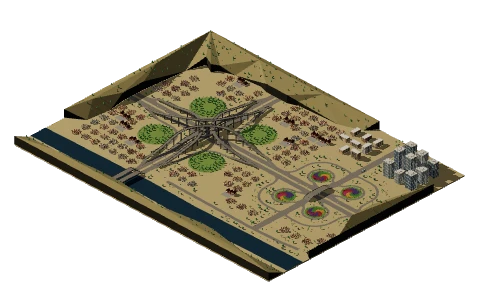
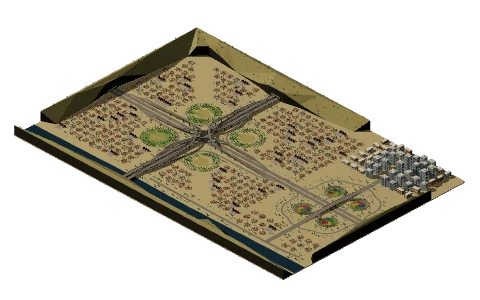
wip: the Interchange's starter pictures retaken (SwiftShader); TODO's traffic template marked done with what's left

Changed region(s): [[0.0312, 0.09, 0.9688, 0.96]]

diff --git a/TODO.md b/TODO.md
@@ -40,7 +40,7 @@ Ideas from the owner, not designed yet. Each needs a design pass (and usually an
 - [ ] **More traffic behaviour:** following and overtaking are done (ADR-0042), and following through junctions (ADR-0136). Still to do: multi-lane roads (two lanes per direction, passing without the oncoming lane), vehicles meeting head-on on roads without lanes (a ferry route driven both ways), giving way inside a junction (vehicles from different roads can pass through each other there), traffic lights or stop signs at junctions (a traffic signal part that a junction's vehicles obey), and maybe a per-road "no overtaking" setting. *Data:* traffic density or speeds from values.
 - [ ] **Connected road networks, next (ADR-0136):** junctions are done: road ends meet at a junction drawn as one surface (roads cut back, markings stopping), vehicles drive on across the network choosing their way at random, and editing connects (dragging an end onto a road or its end, drawing from and onto roads), disconnects and keeps junctions together. Still to do: a junction's own handle in the view (it's moved by any of its ends) and in the outliner; junctions at different heights (a ramp's foot meeting a flyover) and an embankment under a raised junction; roundabouts; flows that drive on as background traffic are done (ADR-0147), but a flow that shows an amount still keeps to its road (an amount carried across junctions would need routing by data); routes that follow data (weights per way out, or a vehicle with a destination); joining the two halves back into one road automatically when a T's side road is deleted (**Join into one road** does it by hand); pasting roads with their junctions; and putting junctions into Brightwater and Lantern Bay, whose roads still overlap.
 - [ ] **A third world: lights and time, next:** the Stockholm template is built (ADR-0135, ADR-0143; `docs/handover/stockholm.md`). Still to do from the first idea: houses on timers (a morning and an evening period), an office tower whose lit panes follow an Occupancy value, Light parts round a square on an evening schedule, a building coloured on a scale by a value. For Stockholm: Norrmalm's stone blocks with flat or mansard roofs, Södermalm east of Götgatan, Katarina kyrka, af Chapman as a full-rigged ship, Strandvägen's boats, the palaces' windows merged as the rows are (fewer draws on Ultra), and its shots in the README's gallery. *Engine gaps it showed:* roads don't follow raised land, so Götgatan climbs Södermalm point by point and Centralbron ends inside its cliff rather than in a real tunnel (ADR-0018); an island in water is raised land drawn over the water area rather than a hole in it (fine for drawing, but water reflections and waves can't know the shore).
-- [ ] **A traffic template (owner, 2026-11-06; after ADR-0147):** a starter world that shows every part of the traffic simulation, a viewpoint for each and a tour through them: junctions (a T, a crossroads, corners, a dead end); background traffic (flows that drive on through junctions: cars, vans, trucks, a bus); a data flow (a road whose width and vehicles follow a small from, to, amount table) beside it; vehicle objects that follow a road (a bus to select, follow and ride along, one kept to its own road with Drive through junctions off); following and overtaking (a slow lorry with faster cars behind on a long road); heights (a bridge over a river, a flyover on an embankment with its ramp, a tunnel portal); a ferry on a hidden route; traffic lights and headlights with an evening coming on. It avoids what isn't built yet (giving way inside a junction, junctions at different heights) rather than showing it off. Made the usual way (Add a template, AGENTS.md: the catalogue, its starter pictures, no validate warnings).
+- [x] **A traffic template (owner, 2026-11-06; after ADR-0147):** done as **The Interchange** (`interchange`, built with ADR-0148): a four-level stack on real grades (exits peeling off at gores, flyovers on two levels over the Valley Freeway's viaduct, raised junctions on pillars), a cloverleaf onto a boulevard with turns set per ramp (`leadsTo`), a river bridge and tunnels into the hills where each freeway turns round out of sight, landscaped islands, a low-rise city, drive-on flows and three vehicles to ride along with, gantries with cards, and a day of example counts as a story (density and colour following each road's row, the time of day following the hour), moods and a tour of 12 viewpoints. Still to do: lanes (three a carriageway), flow speed from data and flow colours, and the rail viaduct with its train once ADR-0148 lands them (the corridor is kept clear, over the middle of the stack); a smaller town-scale traffic world for the rest of the original list (a T, a crossroads and a dead end on two-way streets, a data flow whose width follows a table beside it, overtaking on a long road, a ferry on a hidden route, traffic lights).
 - [ ] **Areas, next (ADR-0096):** corners with their own heights are done (slopes, ramps, the green arrow and G then Y on corners, a lift arrow on the whole area). Peaks inside areas are done too (ADR-0101), moved like corners (handle, gizmo, G, the arrow keys). Still to do: several peaks selected at once (box selection, moving them together); roads following a slope, and objects moving with an area when it's reshaped or raised (they stand on it when moved or dropped, ADR-0098); whether "raised" should be a shape setting for every surface (and "Raised land" a land surface that starts raised, `startHeight` in `scene/areas.ts`), and sloped water (water stays level for now so it can mirror the world; a sloped stream could be drawn without reflections). Towards **block modelling** (the owner's idea, 2026-10-28): a bottom per corner as well as a top, so a shape can float or overhang, and blocks as objects that can be turned and copied like parts. *Data:* a corner's or the whole area's height from a value (a rising water level, a stockpile's size).
 - [ ] **Area polish (ADR-0021):** a shoreline (a lighter edge or foam where water meets land), water that moves in Standard too (the drifting ripples and reflections are Nice and Ultra's, ADR-0075), holes (an island in a lake), smoother outlines, and terrain that roads and entities snap to on raised land.
 - [ ] **Ground textures, next (ADR-0137):** textured surfaces are built: the world's switch (World → Ground, Textured surfaces), the ground's texture, each area's (following its kind: grass, sand, plaza → paving, raised land → dirt; or its own), pattern strength and size, in the surfaces' own colours, with snow and wet gathering in the joints. Still to do: textures for roads and for raised land's cliffs; a texture from data (needs a binding that picks one of a list: a field by harvest, a pitch by season); variants (a meadow with flowers, herringbone paving, wooden decking); painting textures inside an area (probably too much); whether moods should keep the world's switch (they don't, ADR-0137); a template that shows them off.
